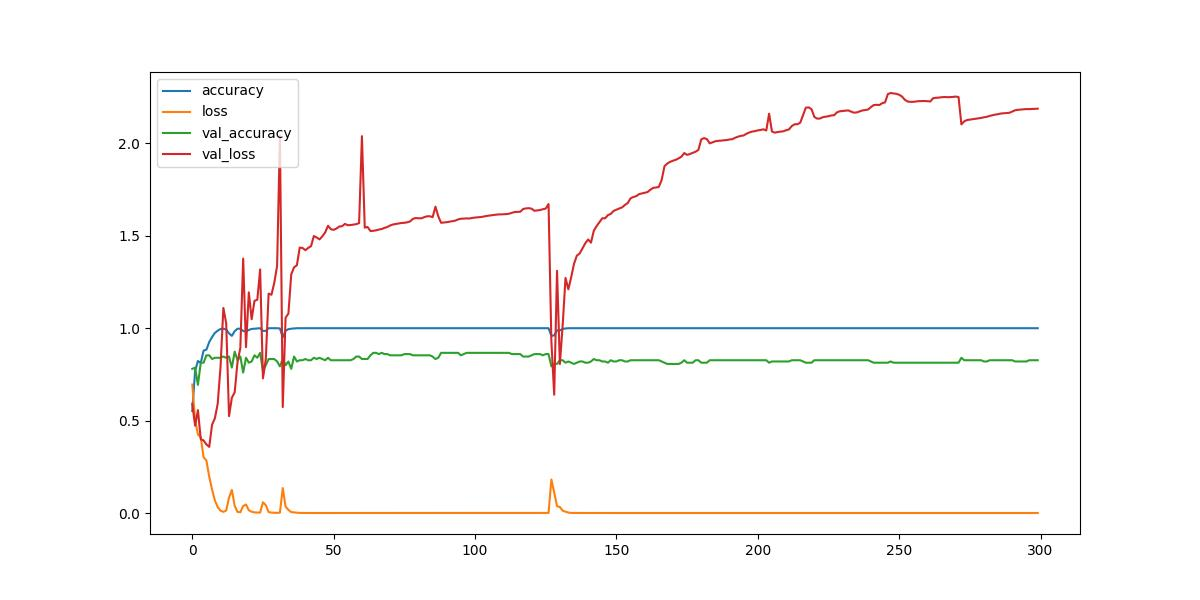
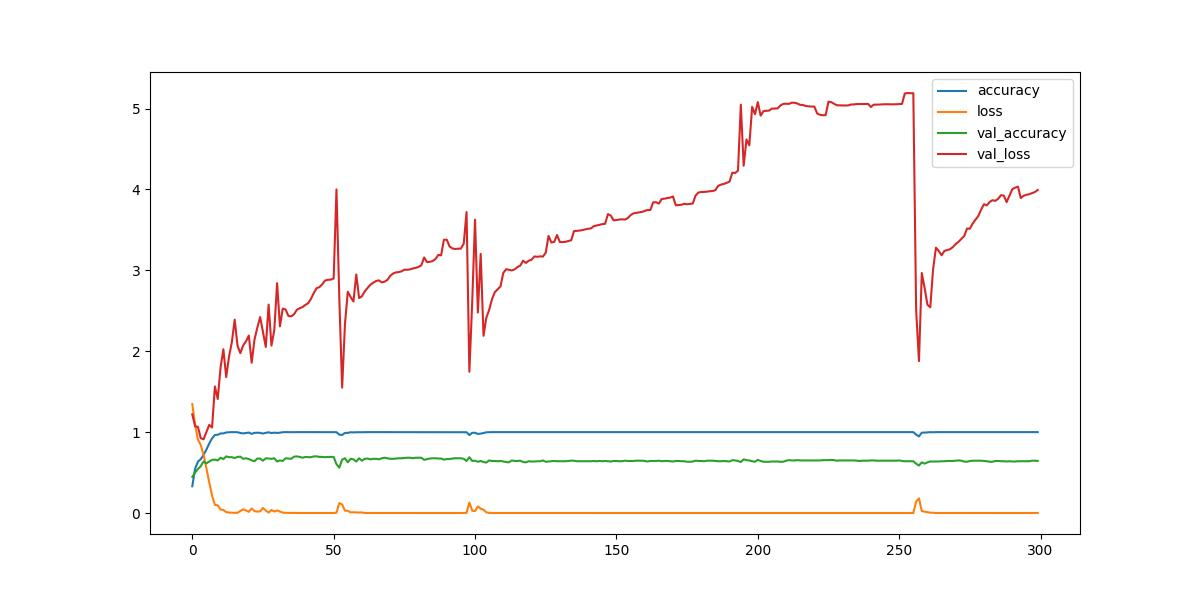
- train lại mô hình với 4 nhãn là thiếu nhi, cách mạng, nhạc trẻ, trữ tình; độ chính xác được 60%
- để cho người dùng lựa chọn 'đánh giá' hay 'huấn luyện' khi chạy trainmodel.py

diff --git a/config.py b/config.py
@@ -16,19 +16,6 @@ AUDIO_FROM_USER = os.path.join(path, "audio_from_user")  # Store audio uploaded 
 
 demo = False
 
-# For testing create these below folders
-# RAW_ROOT = 'rawdata'
-# FOLDER_ROOT = "check_mel-images"
-# DATASET_ROOT = "check_dataset"
-# TRAIN_ROOT = "check_dataset\\train"
-# VAL_ROOT = "check_dataset\\val"
-# TEST_ROOT = "check_dataset\\test"
-# CHECKPOINT_FILEPATH = 'check_checkpoint'
-# SAVED_MODEL_PATH = 'check_model'
-# TEST_AUDIO_PATH = "test_audio"
-# TEST_IMAGES_ROOT = "test_images"    # Store mel-spec img of new audio to predict
-# AUDIO_FROM_USER = "audio_from_user" # Store audio uploaded from user in app
-
 
 # Define global variable
 danhmuc: tuple = (
@@ -37,8 +24,8 @@ danhmuc: tuple = (
     # ["chauvan", "Chauvan", "Chầu văn", ],
     # ["cheo", "Cheo", "Chèo", ],
     # ["hatxam", "Xam", "Hát xẩm", ],
-    # ["cachmang", "cachmang", "Cách mạng", ],
-    # ["nhactre", "nhactre", "Nhạc trẻ", ],
+    ["cachmang", "cachmang", "Cách mạng", ],
+    ["nhactre", "nhactre", "Nhạc trẻ", ],
     ["thieunhi", "thieunhi", "Thiếu nhi", ],
     ["trutinh", "trutinh", "Trữ tình", ],
 )
@@ -66,8 +53,8 @@ amount_of_each_genre: dict = {
     # "NUM_OF_CHAUVAN": len(os.listdir(os.path.join(RAW_ROOT, "chauvan"))),
     # "NUM_OF_CHEO": len(os.listdir(os.path.join(RAW_ROOT, "cheo"))),
     # "NUM_OF_HATXAM": len(os.listdir(os.path.join(RAW_ROOT, "hatxam"))),
-    # "NUM_OF_CACHMANG": len(os.listdir(os.path.join(RAW_ROOT, "cachmang"))),
-    # "NUM_OF_NHACTRE": len(os.listdir(os.path.join(RAW_ROOT, "nhactre"))),
+    "NUM_OF_CACHMANG": len(os.listdir(os.path.join(RAW_ROOT, "cachmang"))),
+    "NUM_OF_NHACTRE": len(os.listdir(os.path.join(RAW_ROOT, "nhactre"))),
     "NUM_OF_THIEUNHI": len(os.listdir(os.path.join(RAW_ROOT, "thieunhi"))),
     "NUM_OF_TRUTINH": len(os.listdir(os.path.join(RAW_ROOT, "trutinh"))),
 }

diff --git a/trainmodel.py b/trainmodel.py
@@ -4,7 +4,12 @@ from config import TRAIN_ROOT, VAL_ROOT, TEST_ROOT
 
 if __name__ == "__main__":
     train_generator, val_generator, test_generator = generate_data(TRAIN_ROOT, VAL_ROOT, TEST_ROOT)
-    # # Can change index from 1 to 3, or 0
-    # best_model = train_model(0, train_set=train_generator, val_set=val_generator, test_set=test_generator)
-    for model_index in range(3):
-        best_model = load_best_model(model_index=model_index + 1, val_set=val_generator)
+    mod = input("nhập tùy chọn 'huấn luyện' hoặc 'đánh giá'")
+    if mod == "huấn luyện":
+        # Can change index from 1 to 3, or 0
+        best_model = train_model(0, train_set=train_generator, val_set=val_generator, test_set=test_generator)
+    elif mod == "đánh giá":
+        for model_index in range(3):
+            best_model = load_best_model(model_index=model_index + 1, val_set=val_generator)
+    else:
+        raise Exception("không có tùy chọn khác ngoài 'huấn luyện' và 'đánh giá'")
